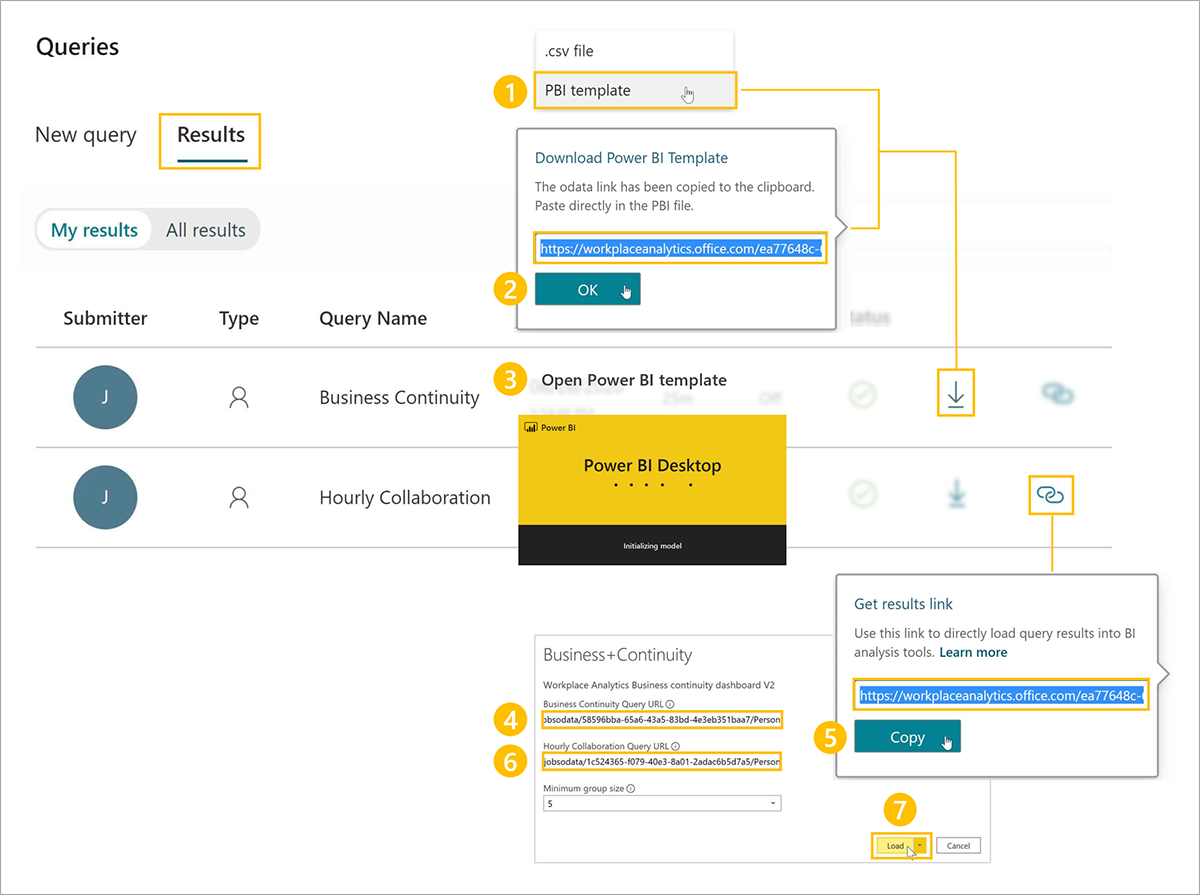
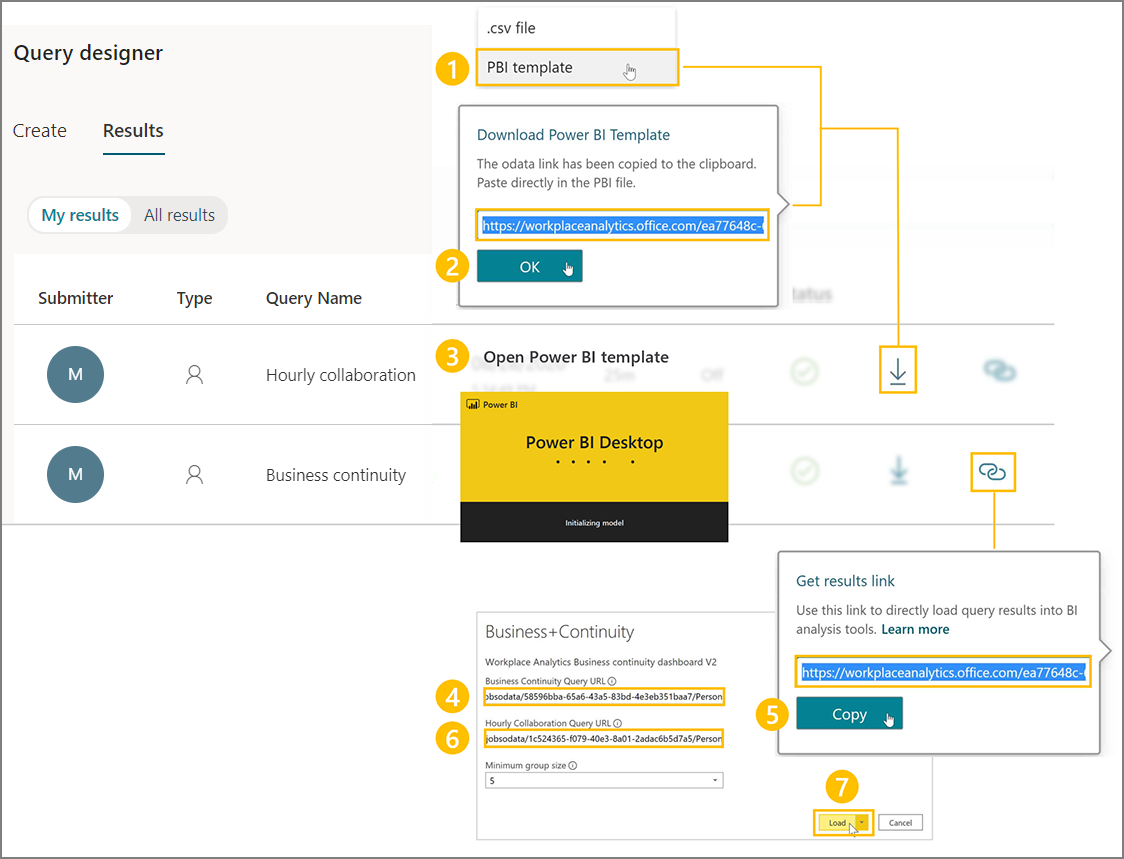
updated Insights business continuity module

diff --git a/learn-m365-pr/m365/workplace-analytics-business-continuity/includes/impact-business-shifts.md b/learn-m365-pr/m365/workplace-analytics-business-continuity/includes/impact-business-shifts.md
@@ -1,11 +1,11 @@
-The Business continuity Power BI template provides a quick and easy way to understand how teams and employees have been impacted by business shifts.
+The Business continuity dashboard in Power BI provides a quick and easy way to understand how the teams and employees in your organization have been impacted by business shifts.
 
 ## So how does it work?
 
-Each report page provides insights into one of the themes laid out on the introduction page. Dynamic filtering and embedded guidance let users uncover useful insights quickly:
+Each report page provides insights into a specific business outcome. Dynamic filtering and embedded guidance help you uncover useful insights quickly:
 
-- Filtering data by the change in the amount of collaboration enables analysts to drill down to groups in the organization that are most impacted.
-- Broader contextual guidance within each page helps users ground their findings in a business context.
+* Filtering data by the change in the amount of collaboration enables analysts to drill down to groups in the organization that are most impacted.
+* Broader contextual guidance within each page helps users ground their findings in a business context.
 
 ![A selection of report pages](../media/report-pages.png)
 
@@ -15,14 +15,14 @@ The Introduction page of the report helps set up the context around what questio
 
 ![the Introduction Page](../media/introduction-page.png)
 
-The Business continuity Dashboard is often converted into a PDF and distributed within a company, so this Introduction page helps set the stage for dashboard recipients who are unfamiliar with insights that are generated by Workplace Analytics.
+The Business continuity dashboard is often converted into a PDF and distributed within a company, so this Introduction page helps set the stage for dashboard recipients who are unfamiliar with insights that are generated by Workplace Analytics.
 
 ### Report: How are collaboration activities changing?
 
 The *Collaboration activity report* shows how collaboration patterns are changing in response to shifting work patterns, and which tools people are substituting for in-person interactions.
 
-- The chart on the left shows the average level of collaboration for the measured employees on a per-employee per-week level.
-- The chart on the right breaks out the change in collaboration between the baseline and current time periods, across your selected organizational attribute
+* The chart on the left shows the average level of collaboration for the measured employees on a per-employee per-week level.
+* The chart on the right breaks out the change in collaboration between the baseline and current time periods, across your selected organizational attribute
 
  [![The collaboration activity report](../media/collaboration-activities-changing.png)](../media/collaboration-activities-changing-lightbox.png#lightbox)
 
@@ -30,18 +30,18 @@ The *Collaboration activity report* shows how collaboration patterns are changin
 > Select any bar in the column chart on the right to filter the timeline chart on the left (this filter is only applied to this report page).
 >
 
-- Increased collaboration can indicate a shift from face-to-face time to digital collaboration. An increase in meetings in particular can indicate a lengthening of work cycles as interactions that once happened informally now have to be scheduled in advance.
-- If collaboration is lower than before, check how the collaboration mix is changing. Is a drop in meetings offset by an increase in emails and chats? If so, it may be that activities that previously required a meeting are shifting to a mix of meetings, email, calls, and chats.
-- Decreased collaboration that continues to stay low across all channels can indicate challenges transitioning to virtual work. Examples of underlying causes are poor connectivity, discomfort with remote meetings, lack of familiarity with tools, and the inability to take work home.
-- Ensure teams are getting support to balance work and life. For teams with low virtual collaboration, check in on their remote work experience to identify specific challenges. It may be helpful to share remote work best practices with the team as part of a live discussion.
+* Increased collaboration can indicate a shift from face-to-face time to digital collaboration. An increase in meetings in particular can indicate a lengthening of work cycles as interactions that once happened informally now have to be scheduled in advance.
+* If collaboration is lower than before, check how the collaboration mix is changing. Is a drop in meetings offset by an increase in emails and chats? If so, it may be that activities that previously required a meeting are shifting to a mix of meetings, email, calls, and chats.
+* Decreased collaboration that continues to stay low across all channels can indicate challenges transitioning to virtual work. Examples of underlying causes are poor connectivity, discomfort with remote meetings, lack of familiarity with tools, and the inability to take work home.
+* Ensure teams are getting support to balance work and life. For teams with low virtual collaboration, check in on their remote work experience to identify specific challenges. It may be helpful to share remote work best practices with the team as part of a live discussion.
 
 ### Report: What are the impacts of work-life integration? Part 1
 
 Part 1 of the *Work-life integration report* helps you determine the share of employees whose collaboration time and workweek span have increased or decreased by at least 0, 4, or 8 hours per week.
 
-- The percentages at the top of the page show the share of employees in the population with an increase or decrease in collaboration hours and workweek span at or above the selected number of hours (4+ hours a week in the example below).
-- The chart on the left shows the share of employees by group with the selected change in collaboration hours. In the example below, collaboration hours decreased 4+ hours for 11% of Legal and increased by 4+ hours for 42% of Legal.
-- The chart on the right shows the share of employees by group with the selected change in workweek span hours. In the example below, workweek span decreased by 4+ hours for 14% of Professional Services and increased by 4+ hours for 34% of Professional Services.
+* The percentages at the top of the page show the share of employees in the population with an increase or decrease in collaboration hours and workweek span at or above the selected number of hours (4+ hours a week in the example below).
+* The chart on the left shows the share of employees by group with the selected change in collaboration hours. In the example below, collaboration hours decreased 4+ hours for 11% of Legal and increased by 4+ hours for 42% of Legal.
+* The chart on the right shows the share of employees by group with the selected change in workweek span hours. In the example below, workweek span decreased by 4+ hours for 14% of Professional Services and increased by 4+ hours for 34% of Professional Services.
 
 ![The work-life-integration report Part 1](../media/work-life-integration-impacts-1.png)
 
@@ -50,61 +50,58 @@ Part 1 of the *Work-life integration report* helps you determine the share of em
 > Use the hours-per-week drop-down menu at the top of each pane to adjust the comparison points for  collaboration and workweek span hours  to at least zero, two, or four hours per week.
 >
 
-- If you see team collaboration patterns revert to near-normal levels, employees might still be impacted due to managing work demands with family or community, technology-related blockers, or prioritizing non-collaborative work to make the most of decreased connectivity.
-- Workweek spans can change depending on how employees adapt to remote work and how they use increased flexibility to accommodate the needs of family or community. For teams accustomed to working in the same location and with the same working hours, increased flexibility might cause some friction.
-- Low workweek spans do not necessarily indicate lower productivity or less time working – rather, employees might be handling collaborative activity in fewer hours, and performing focused work outside of that window.
-- If some employees are sending messages early or late in the day, and others are sticking to their prior schedules, it might be valuable for teams to align their expectations on how "after-hours" messages should be handled, and how quickly to respond or expect a response.
+* If you see team collaboration patterns revert to near-normal levels, employees might still be impacted due to managing work demands with family or community, technology-related blockers, or prioritizing non-collaborative work to make the most of decreased connectivity.
+* Workweek spans can change depending on how employees adapt to remote work and how they use increased flexibility to accommodate the needs of family or community. For teams accustomed to working in the same location and with the same working hours, increased flexibility might cause some friction.
+* Low workweek spans do not necessarily indicate lower productivity or less time working – rather, employees might be handling collaborative activity in fewer hours, and performing focused work outside of that window.
+* If some employees are sending messages early or late in the day, and others are sticking to their prior schedules, it might be valuable for teams to align their expectations on how "after-hours" messages should be handled, and how quickly to respond or expect a response.
 
 ### Report: What are the impacts of work-life integration? Part 2
 
 Part 2 of the *Work-life integration report* shows the share of employees whose after-hours activity has increased or decreased by more than 0, 2, or 4 hours. You can also assess activity by time of day for each collaboration channel to understand how the workday is changing.
 
-- The chart on the left shows the share of employees by group for the selected change in after-hours. In the example below, after-hours activity decreased by more than 2 hours for 14% of Professional Services and increased by more than 2 hours for 8% of Professional Services.
-- The chart on the right shows how activity for each communication mode is distributed across the day, along with notes that describe the change in activity between the baseline and the current time period, both for  8am – 5pm and for after hours
+* The chart on the left shows the share of employees by group for the selected change in after-hours. In the example below, after-hours activity decreased by more than 2 hours for 14% of Professional Services and increased by more than 2 hours for 8% of Professional Services.
+* The chart on the right shows how activity for each communication mode is distributed across the day, along with notes that describe the change in activity between the baseline and the current time period, both for  8 AM to 5 PM and for after hours
 
 ![The work-life-integration report Part 2](../media/work-life-integration-impacts-2.png)
 
-> [!TIP]
-> Use the drop-down menu at the top of the pane to adjust the after-hours value comparison point to more than zero, two, or four hours per week.
->
+>[!TIP]
+>Use the drop-down menu at the top of the pane to adjust the after-hours value comparison point to more than zero, two, or four hours per week.
 
-- For employees adapting to remote work, "work" and "life" are less likely to be separated by clear time bounds. Increasing after-hours collaboration can indicate that employees are balancing work and non-work obligations. It can also signal that employees are becoming overloaded, and don't have time to complete tasks during the workday.
-- As more collaboration shifts to chats and emails, messages may come in at all hours. Employees on the receiving end might be compelled to respond immediately. Teams seeing a significant volume of emails and chats shifting into after hours could benefit from having a shared conversation around new norms and expectations for their workday.
-- Teams that see larger increases or decreases in after-hours activity are good candidates for investigating activities that might be driving the change. It's a good practice to validate with employees how it impacts their wellbeing and ability to work effectively.
-- For customers with MyAnalytics, Focus plans can empower employees to take better control of their working hours to reduce the workload that spills into after-hours.
+* For employees adapting to remote work, "work" and "life" are less likely to be separated by clear time bounds. Increasing after-hours collaboration can indicate that employees are balancing work and non-work obligations. It can also signal that employees are becoming overloaded, and don't have time to complete tasks during the workday.
+* As more collaboration shifts to chats and emails, messages may come in at all hours. Employees on the receiving end might be compelled to respond immediately. Teams seeing a significant volume of emails and chats shifting into after hours could benefit from having a shared conversation around new norms and expectations for their workday.
+* Teams that see larger increases or decreases in after-hours activity are good candidates for investigating activities that might be driving the change. It's a good practice to validate with employees how it impacts their wellbeing and ability to work effectively.
+* For customers with MyAnalytics, Focus plans can empower employees to take better control of their working hours to reduce the workload that spills into after-hours.
 
 ### Report: Are external relationships being maintained?
 
 The *External relationships report* quantifies changes in communication with customers, partners, and others outside the organization.
 
-- The metrics on the left provide a consolidated view of email and meeting hours changes compared to the baseline time period.
-- The chart on the right drills down by group within the organization to see how engagement with external customers and partners has changed since the baseline time-period. In the example below, the average weekly external collaboration hours for marketing employees has increased 0.7 hours.
+* The metrics on the left provide a consolidated view of email and meeting hours changes compared to the baseline time period.
+* The chart on the right drills down by group within the organization to see how engagement with external customers and partners has changed since the baseline time-period. In the example below, the average weekly external collaboration hours for marketing employees has increased 0.7 hours.
 
 ![The external relationships report](../media/external-relationships-maintained.png)
 
 Teams with significant decreases in external collaboration might be struggling to maintain connectivity with customers. When companies respond to business shifts, they often become more inwardly focused. It may be difficult for sales teams to schedule time with customers that are focusing on other priorities. On the other hand, functions that provide support to customers could see an uptick in customer external collaboration.
 
-> [!NOTE]
-> External collaboration hours include collaboration with personal domains such as gmail.com and yahoo.com. To exclude personal domains, customize the *external email hours* and *external meeting hours* metrics in the query.
->
+>[!NOTE]
+>External collaboration hours include collaboration with personal domains such as gmail.com and yahoo.com. To exclude personal domains, customize the *external email hours* and *external meeting hours* metrics in the query.
 
 ### Report: Are employees engaged and connected?
 
 The *Engagement and connectivity report* helps identify areas that might be struggling with employee connectivity and community by showing recent manager one-on-one and small group conversation activity.
 
-- The chart on the left shows the share of employees by group with no manager one-on-one meetings.  
-- The chart on the right shows the amount of time per week that employees spend in small-group conversations, where a small group consists of eight or fewer employees.
+* The chart on the left shows the share of employees by group with no manager one-on-one meetings.  
+* The chart on the right shows the amount of time per week that employees spend in small-group conversations, where a small group consists of eight or fewer employees.
 
 ![The engagement and connectivity report](../media/employees-engaged-connected.png)
 
 > [!NOTE]
 > These metrics reflect the last two weeks of the current time frame only.
->
 
-- Manager one-on-one meetings are an indicator of support and development opportunities. In a remote work environment, it is important for managers to check in with employees on a regular basis to see how they are doing, identify barriers, and ensure that workloads are manageable. Such check-ins demonstrate compassion and empathy and establish trust.
-- Small group conversations in meetings, calls, and chats can reduce feelings of isolation (while email might push a workstream, it is impersonal and does not promote engaged connectivity). Employees experiencing low connectivity (< two hours per week) might be struggling to adapt to virtual work and might need more training and assistance.
-- The visuals in this report can be used together to form a story. For example, employees with low connectivity and limited manager one-on-one sessions are likely at the highest risk of isolation and disengagement.
-- Customers with MyAnalytics might benefit from Manager Nudges that help remind managers to take actions that foster a sense of community and engagement across their teams.
+* Manager one-on-one meetings are an indicator of support and development opportunities. In a remote work environment, it is important for managers to check in with employees on a regular basis to see how they are doing, identify barriers, and ensure that workloads are manageable. Such check-ins demonstrate compassion and empathy and establish trust.
+* Small group conversations in meetings, calls, and chats can reduce feelings of isolation (while email might push a workstream, it is impersonal and does not promote engaged connectivity). Employees experiencing low connectivity (< two hours per week) might be struggling to adapt to virtual work and might need more training and assistance.
+* The visuals in this report can be used together to form a story. For example, employees with low connectivity and limited manager one-on-one sessions are likely at the highest risk of isolation and disengagement.
+* Customers with MyAnalytics might benefit from Manager Nudges that help remind managers to take actions that foster a sense of community and engagement across their teams.
 
 Engage with teams that are doing well in terms of manager one-on-ones and small group conversations and share their best practices with the broader organization. Encourage managers to check on wellbeing, connectivity, and workload in one-on-ones, and encourage team members to connect in virtual meetings, calls, and chats to avoid isolation.
 
@@ -116,11 +113,11 @@ The *Evolving work patterns report* shows how key collaboration behaviors have b
 
 This view shows population level metrics over time, including:
 
-- Collaboration hours
-- Workweek span
-- After-hours collaboration
-- Percent of employees with no manager one-on-one meetings in the last two weeks
-- Percent of employees with less than two hours a week in small group conversations
+* Collaboration hours
+* Workweek span
+* After-hours collaboration
+* Percent of employees with no manager one-on-one meetings in the last two weeks
+* Percent of employees with less than two hours a week in small group conversations
 
 Use this view to spot trends against the backdrop of four-week rolling average data, to see changes in the metrics themselves, and changes in the directionality of trend lines.
 As employees acclimate to new ways of working, the trend lines should begin to stabilize.  If employees return to the office, use these trend lines to track the new normal. As managers connect and provide guidance, and facilitate community continuity, the percentages in the Maintaining engagement and connectivity category should trend downward.

diff --git a/learn-m365-pr/m365/workplace-analytics-business-continuity/includes/set-up-dashboard.md b/learn-m365-pr/m365/workplace-analytics-business-continuity/includes/set-up-dashboard.md
@@ -1,64 +1,58 @@
-The Business continuity dashboard uses a prebuilt Power BI template populated by output (OData) from two Workplace Analytics queries, Business Continuity and Hourly Collaboration.
+The Business continuity dashboard uses a prebuilt Power BI template populated by output (OData) from the Business continuity and Hourly collaboration queries through the Query designer in Workplace Analytics.
 
-![Business Continuity and Hourly Collaboration queries](../media/business-continuity-collaboration-queries.png)
+![Business Continuity and Hourly Collaboration queries](../media/template-setup.png)
 
-To set up the Business continuity dashboard, you:
+To set up the Business continuity dashboard:
 
-1. Run the Business Continuity and Hourly Collaboration queries.
-2. Download the Business Continuity Power BI (PBI) template and load the query output.
-3. Select your settings in the Business continuity dashboard.
+1. Complete the template setup through the Query designer.
+2. Download the template and load the query output.
+3. Select the dashboard settings.
 
 After the data is loaded the dashboard reports will generate automatically, resulting in multiple pages of Workplace Analytics insights, called reports. These reports can empower your organization to better support employees in new ways of working.
 
-**1. Run the Business Continuity and Hourly Collaboration queries**. The Business continuity dashboard reports require output from two Workplace Analytics queries. On the Queries page, under **Start from preselected filters and metrics**, begin by running the Business continuity and Hourly Collaboration queries.
+**1. Complete the template setup through the Query designer**. In the Query designer, select the Business continuity template and follow the on-screen instructions.
 
-In the upper right corner of the Business Continuity query card, you'll notice a Power BI icon. This indicates there's a download option for a Power BI template that you can use to generate the reports in the dashboard.
+>[!IMPORTANT]
+>Be sure to download and install the most recent version of Power BI to avoid issues setting up and loading data for the dashboard.
 
-![Query panes](../media/query-panes.png)
+For each query, give it a descriptive name and select your date range and exclusions. To create a report that updates weekly, select **Auto-refresh** for each query.
 
-> [!IMPORTANT]
->
-> Be sure to download and install the most recent version of Power BI to avoid issues setting up and loading data into the dashboard.
->
+Tips when running the queries:
 
-As you run each query, give it a descriptive name and select your date range and meeting/attendee exclusions. To create a report that updates weekly, you can choose to enable **Auto-refresh** for each query.
+* For best results, select **Last 1 year** so that you include the time period before and after any shifts in work patterns
+* In **Select metrics**, keep all preselected metrics (don't delete any). The dashboard uses them to create the charts, graphs, and insights in the report pages.
+* In **Select filters**, select **Active only** for **Which measured employees do you want to include**. Optionally, use additional filters to further refine the population for your analysis.
+* Under **Organizational data**, leave the default attributes (Organization, LevelDesignation, TimeZone) selected. Optionally, select additional attributes that you'd like to include in the reports.
+* Use these same parameters and filters in both the Business continuity and Hourly collaboration queries.
 
-Some tips to keep in mind when running the queries:
+**2. Download the Power BI template and load the query output**. After the queries have finished running, you can access the Business Continuity Power BI template and data through the OData URL in **Query designer** > **Results**.
 
-- For best results, select **Last 1 year** so that you include the time period before and after any shifts in work patterns
-- Under **Select metrics**, keep all preselected metrics (don't delete any). The dashboard uses them to create the charts, graphs, and insights in the report pages.
-- Under **Select filters**, select **Active only** for "Which measured employees do you want to include?" Optionally, use additional filters to further refine the population for your analysis.
-- Under **Organizational data**, leave the default attributes (Organization, LevelDesignation, TimeZone) selected. Optionally, select additional attributes that you'd like to include in the reports.
-- Use these same parameters and filters in both the Business continuity and Hourly collaboration queries.
+To load the data into the template:
 
-**2. Download the Business Continuity Power BI template and load the query output**. After the queries have finished running, you can access the Business Continuity Power BI template and data through the OData URL by selecting the **Results** tab on the Queries page.
-
-To load the data into the Business Continuity Power BI template:
-
-1. Download the Power BI template from the Business Continuity query result.
-2. When prompted that the OData link has been copied, select **OK**.
+1. Download the Power BI template from the **Business continuity** query result.
+2. When prompted that the OData link was copied, select **OK**.
 3. Open the downloaded Power BI template.
-4. In Power BI, paste the Business Continuity OData link into the Business Continuity Query URL field.
-5. Return to your results in Workplace Analytics. In the Hourly Collaboration result, copy the OData link to the Hourly Collaboration output.
-6. Return to Power BI and paste the Hourly Collaboration OData link into the Hourly Collaboration Query URL field.
+4. In Power BI, paste the OData link in **Business Continuity Query URL**.
+5. For the **Hourly collaboration** result in Query designer, copy the OData link.
+6. Return to Power BI and paste the OData link in **Hourly Collaboration Query URL**.
 7. Select **Load** to load the data.
 
 ![Load data into the template procedure](../media/load-data-template.png)
 
-The dashboard visualizations on each page of the report populate with Workplace Analytics data, starting with the Settings page.
+The dashboard visualizations on each page of the report populate with Workplace Analytics data, starting with the **Settings** page.
 
-**3. Select your settings in the Business continuity dashboard**. After you have loaded the data and the report is generated in Power BI, the dashboard opens to the **Settings** page, where you have the option to adjust some settings for your analysis.
+**3. Select the dashboard settings**. After you have loaded the data and the report is generated in Power BI, the dashboard opens to the **Settings** page, where you can confirm and change the settings for your analysis.
 
-- Select time periods for comparison. These are the time periods you'll use to compare how workplace behavior has changed. The baseline period contains the collaboration you'll compare the current time period against.
-- Select from the list of organizational attributes you chose to include in your query. Default attributes are **Organization**, **LevelDesignation** and **TimeZone**, but the list will include any organizational attributes selected when queries were run.
-- To filter the reports further, select any of the available organizational attributes and filter values for the data you would like to include.
+* Select time periods for comparison. These are the time periods you'll use to compare how workplace behavior has changed. The baseline period contains the collaboration you'll compare the current time period against.
+* Select from the list of organizational attributes you chose to include in your query. Default attributes are **Organization**, **LevelDesignation** and **TimeZone**, but the list will include any organizational attributes selected when queries were run.
+* To filter the reports further, select any of the available organizational attributes and filter values for the data you would like to include.
 
 ![Settings options](../media/options-settings.png)
 
 After you've selected the settings for the group you'd like to analyze, you can start using the dashboard. The populated Business continuity dashboard includes report pages on changing collaboration, work-life integration, external relationships, engagement and connectivity, evolving work patterns, and areas of improvement.
 
-For a more detailed list of step-by-step instructions on Business continuity dashboard setup and troubleshooting see the link below under **Learn more**. There you'll find template updates, setup instructions with video, things to remember when sharing the dashboard, FAQs, errors and troubleshooting, and support.
+See the documentation link in [Learn more](#learn-more) for template updates, setup instructions, tips for sharing the dashboard, FAQs, and troubleshooting.
 
 ## Learn more
 
-- [Business continuity dashboard](/Workplace-Analytics/tutorials/power-bi-bc?azure-portal=true)
+[Business continuity dashboard](/viva/insights/tutorials/power-bi-bc)

diff --git a/learn-m365-pr/m365/workplace-analytics-business-continuity/includes/target-areas-improve.md b/learn-m365-pr/m365/workplace-analytics-business-continuity/includes/target-areas-improve.md
@@ -1,4 +1,4 @@
-The Business continuity Power BI template provides quick insight on opportunity areas to improve remote work.
+The Business continuity template for Power BI provides quick insight about opportunities for improving remote work.
 
 ### Report: How can remote work effectiveness be improved? View 1
 
@@ -6,19 +6,15 @@ View 1 of the *Areas of improvement report* gives a population-level look at fiv
 
 [![The Areas of improvement report View 1](../media/effectiveness-improved-1.png)](../media/effectiveness-improved-1-lightbox.png#lightbox)
 
-**Manageable work levels**: Employees with an increase of 4+ hours in both collaboration hours and workweek span might be experiencing difficulty managing their workloads and might benefit from task prioritization and workload balancing.
+* **Manageable work levels** - Employees with an increase of 4+ hours in both collaboration hours and workweek span might be experiencing difficulty managing their workloads and might benefit from task prioritization and workload balancing.
+* **Sustained working cadence** - Employees with a significant decrease in virtual collaboration might not be equipped with the tools (laptop, internet, or VPN) or resources and direction required to get their work done remotely. They might benefit from better tools, training, and guidance.
+* **Work-life integration** - Employees might find it difficult to create boundaries between work and home when both are taking place in the same environment. Creating team expectations around virtual collaboration norms and sharing best practices on creating boundaries might help maintain wellbeing. 
+* **Manager guidance** - Regular manager one-on-ones are critical for establishing rapport, creating an environment of empathy and trust, and managing workloads. Employees with regular one-on-ones may see less increase in collaboration hours and workweek span in the shift to  remote work.
+* **Employee connectivity** - Studies show that remote workers are at a significant risk of isolation. Ensuring peer connectivity through small group conversations increases employee engagement and reduces the risk of isolation.
 
-**Sustained working cadence**: Employees with a significant decrease in virtual collaboration might not be equipped with the tools (laptop, internet, or VPN) or resources and direction required to get their work done remotely. They might benefit from better tools, training, and guidance.
+Opportunities with high percentages of your employee population suggest high impact areas for remote work improvement. The metrics selected for each of these areas can indicate potential opportunity but are not definitive.
 
-**Work-life integration**: Employees might find it difficult to create boundaries between work and home when both are taking place in the same environment. Creating team expectations around virtual collaboration norms and sharing best practices on creating boundaries might help maintain wellbeing. 
-
-**Manager guidance**: Regular manager one-on-ones are critical for establishing rapport, creating an environment of empathy and trust, and managing workloads. Employees with regular one-on-ones may see less increase in collaboration hours and workweek span in the shift to  remote work.
-
-**Employee connectivity**: Studies show that remote workers are at a significant risk of isolation. Ensuring peer connectivity through small group conversations increases employee engagement and reduces the risk of isolation.
-
-Opportunities with high percentages of your employee population suggest high impact areas for remote work improvement. The Workplace Analytics metrics selected for each of these areas can indicate potential opportunity but are not definitive.
-
-Use surveys, focus groups, and employee discussions to identify whether the changes in collaboration behaviors are truly indicative of an underlying issue. 
+Use surveys, focus groups, and employee discussions to identify whether the changes in collaboration behaviors are truly indicative of an underlying issue.
 
 Take a look at the *Best practices recommendations* (on the right side of the report) for training videos, tips, and tool usage recommendations to improve remote work effectiveness.
 
@@ -28,21 +24,19 @@ View 2 of the *Areas of improvement report* summarizes the key metrics that were
 
 [![The Areas of improvement report View 2](../media/effectiveness-improved-2.png)](../media/effectiveness-improved-2-lightbox.png#lightbox)
 
-- Use the break-outs by organizational attribute in this report to identify pockets of the organization most impacted by the opportunity areas.
-
-- To filter the reports by a different organizational attribute, return to the Settings page and select a new attribute from the dropdown menu. All report pages will automatically group the data by the newly selected attribute.
-
-- Select each column heading to sort the values in the table by decreasing/increasing order. Consider applying the best practice recommendations (on the right side of the previous report) to organizations with high values in each opportunity area.
+* Use the break-outs by organizational attribute in this report to identify pockets of the organization most impacted by the opportunity areas.
+* To filter the reports by a different organizational attribute, return to the Settings page and select a new attribute from the dropdown menu. All report pages will automatically group the data by the newly selected attribute.
+* Select each column heading to sort the values in the table by decreasing or increasing order. Consider applying the best practice recommendations (on the right side of the previous report) to organizations with high values in each opportunity area.
 
 ### Report: Glossary
 
-This final report, the *Glossary*, provides a reference for the metrics and terminology used across the Business continuity Dashboard. 
+The *Glossary* includes metrics and terminology used within the dashboard.
 
 [![The Glossary](../media/glossary.png)](../media/glossary-lightbox.png#lightbox)
 
 ## Learn more
 
-- [Workplace Analytics metrics](/Workplace-Analytics/use/metric-definitions?azure-portal=true)
-- [About the reports](/Workplace-Analytics/tutorials/power-bi-bc#about-the-reports)
-- [Workplace Analytics Plans](/Workplace-Analytics/tutorials/solutionsv2-task?azure-portal=true)
-- [Article: How Managers Can Support Remote Employees](https://hbr.org/2020/04/how-managers-can-support-remote-employees?ab=hero-subleft-1?azure-portal=true)
+* [Metric descriptions](/viva/insights/use/metric-definitions)
+* [About the reports](/viva/insights/tutorials/power-bi-bc#about-the-reports)
+* [Workplace Analytics Plans](/viva/insights/tutorials/solutionsv2-taske)
+* [Article: How Managers Can Support Remote Employees](https://hbr.org/2020/04/how-managers-can-support-remote-employees)

diff --git a/learn-m365-pr/m365/workplace-analytics-business-continuity/includes/introduction.md b/learn-m365-pr/m365/workplace-analytics-business-continuity/includes/introduction.md
@@ -1,28 +1,28 @@
-The Workplace Analytics Business continuity dashboard uses a Power Business Intelligence (BI) template that's populated with Workplace Analytics data. You use this behavioral data to get insights into how your organization and employees are being impacted by the shift to remote work. This dashboard directionally highlights where the shift to remote work might have the biggest impacts, and offers a measurable starting point for helping you understand where you might use tools and processes to support and sustain new ways of working.
+The Business continuity dashboard in Power BI uses a Power Business Intelligence (BI) template that's populated with Viva Insights data through Workplace Analytics. You use this behavioral data to get insights into how your organization and employees are being impacted by the shift to remote work. This dashboard directionally highlights where the shift to remote work might have the biggest impacts, and offers a measurable starting point for helping you understand where you might use tools and processes to support and sustain new ways of working.
 
-The dashboard lets you visualize and explore these top-level business questions:
+This dashboard lets you visualize and explore the following top-level business questions:
 
-- How are collaboration activities changing?
-- What are the impacts of work-life integration?
-- Are external relationships being maintained?
-- Are employees engaged and connected?
-- How are work patterns evolving?
-- How can remote work effectiveness be improved?
+* How are collaboration activities changing?
+* What are the impacts of work-life integration?
+* Are external relationships being maintained?
+* Are employees engaged and connected?
+* How are work patterns evolving?
+* How can remote work effectiveness be improved?
 
 These insights can help to protect the wellbeing of employees by empowering leaders to make remote work more effective so employees can do their best work.
 
-Suppose you work as the chief of staff for a major business unit at a technology company and your organization shifts to 100% remote work. After three months, your leadership team asks you to measure the effect of the shift to remote work on employee collaboration and wellbeing. You suspect that for many employees, work is bleeding over into personal time.  As a result, there's a drop in employees' ability to effectively collaborate while maintaining a sense of balance. You use Workplace Analytics with the assigned role of Workplace Analytics Analyst and the Business continuity Power BI dashboard to get a look at how your organization has adapted to working remotely.
+Suppose you work as the chief of staff for a major business unit at a technology company and your organization shifts to 100 percent remote work. After three months, your leadership team asks you to measure the effect of the shift to remote work on employee collaboration and wellbeing. You suspect that for many employees, work is bleeding over into personal time. As a result, there's a drop in employees' ability to effectively collaborate while maintaining a sense of balance. You use Workplace Analytics with the assigned role of Analyst and the Business continuity dashboard in Power BI to see how your organization has adapted to working remotely.
 
 ## Learning objectives
 
 In this module, you'll learn to:
 
-- Explain what the Workplace Analytics Power BI Business continuity dashboard is, and why it provides an important perspective.
-- Run queries, load the data, and select your settings.
-- Interpret the results in the dashboard.
+* Explain what the Business continuity dashboard in Power BI is, and why it provides an important perspective.
+* Use the Query designer template to run the queries, load the data, and select your settings.
+* Interpret the results in the dashboard.
 
 ## Prerequisites
 
-- Familiarity with Workplace Analytics data sources
-- Basic knowledge of Microsoft Power BI software
-- Basic knowledge of Workplace Analytics queries and query structure
+* Familiarity with the Workplace Analytics data sources in Viva Insights
+* Basic knowledge of Microsoft Power BI software
+* Basic knowledge of the Query designer and query structure

diff --git a/learn-m365-pr/m365/workplace-analytics-business-continuity/includes/summary.md b/learn-m365-pr/m365/workplace-analytics-business-continuity/includes/summary.md
@@ -1,13 +1,13 @@
-In our introductory scenario, you, as the chief of staff, wanted to measure how the shift to working remotely has affected employee collaboration and wellbeing.
+In the introductory scenario, you, as the chief of staff, want to measure how the shift to remote work has affected employee collaboration and wellbeing.
 
-The Business continuity dashboard gives you an insight into how collaboration has changed with the shift to remote work, including changes to activity levels in email, meetings, and Teams chats and calls. You can see that different employee subgroups  are being impacted by shifts in the amount of total collaboration, increases in time spent outside of the normal workday, and changes in communication levels with others outside your organization.
+The Business continuity dashboard gives you insight into how collaboration has changed with a shift in work, including changes to activity levels in email, meetings, and Teams chats and calls. You can see that different employee subgroups  are being impacted by shifts in the amount of total collaboration, increases in time spent outside of the normal workday, and changes in communication levels with others outside your organization.
 
-It would be difficult to build a similar report from scratch without Workplace Analytics data. If you or your business analyst has approval to access raw Microsoft 365 data, you would have to figure out how to gather the raw signal data for all users, make sense of the data, calculate business metrics, and maintain employee privacy and data security. And only then could you build your business continuity report.
+It would be difficult to build a similar report from scratch without Workplace Analytics data. If you or your business analyst has approval to access raw Microsoft 365 data, you could figure out how to gather the raw signal data for all your employees, organize and analyze the data, and calculate the applicalbe business metrics, all while maintaining employee privacy and data security. Only then could you build a business continuity report.
 
-The report pages and metrics in the Workplace Analytics Business continuity dashboard show you how the organization has adapted to remote work and identify specific areas that are experiencing notable changes in work patterns.
+The report pages and metrics in the Business continuity dashboard show you how the organization has adapted to remote work and identifies those who are experiencing notable changes in work patterns.
 
 Now that you have finished this module, you should be able to:
   
-- Explain what the Workplace Analytics Power BI Business continuity dashboard is, and why it provides an important perspective.
-- Run queries, load the data, and select your settings.
-- Interpret the results in the dashboard.
+* Explain what the Business continuity dashboard in Power BI is, and why it provides an important perspective.
+* Use the Query designer to use templates, run queries, load query data, and select your settings.
+* Interpret the results in the dashboard.
